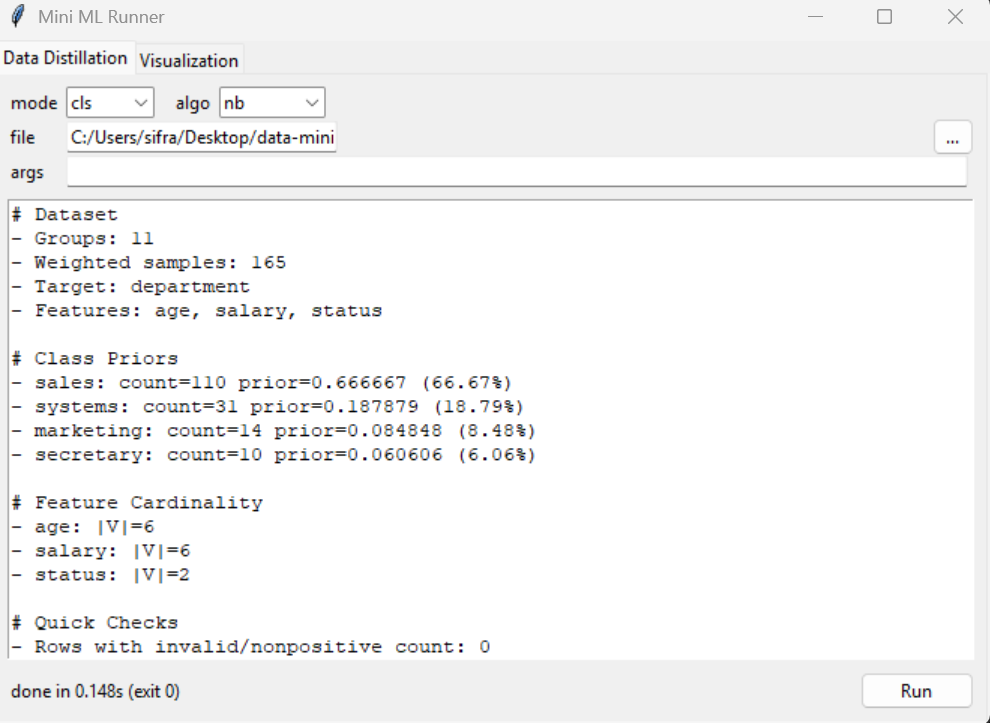
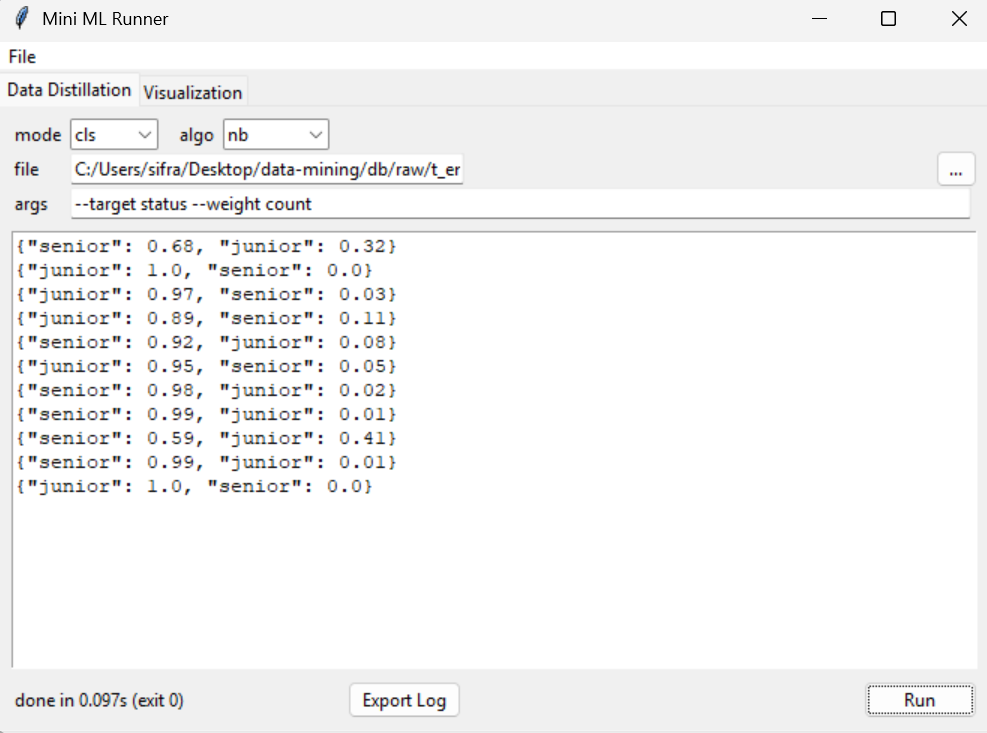
Use the configured Laplace value

diff --git a/models/classification/nb.py b/models/classification/nb.py
@@ -5,7 +5,7 @@ from typing import Any, Dict, Iterable, List, Tuple, Optional, Union
 
 Number = Union[int, float]
 
-# ---------- utils: flatten + numeric helpers ----------
+# ---------- utils ----------
 def _is_number_like(x: Any) -> bool:
     if isinstance(x, (int, float)) and not isinstance(x, bool):
         return True
@@ -35,7 +35,7 @@ def _flatten(prefix: str, value: Any, out: Dict[str, Any]) -> None:
         for i, v in enumerate(value):
             _flatten(f"{prefix}[{i}]" if prefix else f"[{i}]", v, out)
     else:
-        if prefix:  # ignore empty top-level if someone passes a scalar
+        if prefix:
             out[prefix] = value
 
 def flatten_json(obj: Dict[str, Any]) -> Dict[str, Any]:
@@ -45,26 +45,16 @@ def flatten_json(obj: Dict[str, Any]) -> Dict[str, Any]:
 
 # ---------- model ----------
 class NaiveBayesJSON:
-    """
-    General Naive Bayes for arbitrary JSON records.
-    - Auto-detects feature types (numeric/categorical)
-    - Categorical: Laplace smoothing
-    - Numeric: Gaussian likelihood with variance floor
-    - Supports per-sample weights
-    """
     def __init__(self, laplace: float = 1.0, var_floor: float = 1e-9):
         self.laplace = laplace
         self.var_floor = var_floor
         self.classes_: List[Any] = []
         self.class_weight_: Counter = Counter()
         self.n_weight_: float = 0.0
-
-        self.feature_types_: Dict[str, str] = {}  # 'categorical' | 'numeric'
+        self.feature_types_: Dict[str, str] = {}
         self.cat_counts_: Dict[str, Dict[Any, Counter]] = defaultdict(lambda: defaultdict(Counter))
         self.cat_totals_: Dict[str, Dict[Any, float]] = defaultdict(lambda: defaultdict(float))
         self.cat_cardinality_: Dict[str, int] = {}
-
-        # numeric params: feature -> class -> (mean, var, weight_sum)
         self.num_params_: Dict[str, Dict[Any, Tuple[float, float, float]]] = defaultdict(dict)
         self.log_priors_: Dict[Any, float] = {}
         self._feat_numeric_votes_: Counter = Counter()
@@ -90,7 +80,6 @@ class NaiveBayesJSON:
 
         flat_X = [flatten_json(rec) for rec in X]
 
-        # vote feature types
         for feat_row in flat_X:
             for k, v in feat_row.items():
                 self._feat_total_votes_[k] += 1
@@ -98,20 +87,18 @@ class NaiveBayesJSON:
                     self._feat_numeric_votes_[k] += 1
         self._decide_feature_types()
 
-        # accumulate per-class stats
         num_stats: Dict[str, Dict[Any, List[float]]] = defaultdict(lambda: defaultdict(lambda: [0.0, 0.0, 0.0]))
         cat_vocab: Dict[str, set] = defaultdict(set)
 
         for feat_row, cls, w in zip(flat_X, y, sample_weight):
             self.class_weight_[cls] += w
             self.n_weight_ += w
-
             for k, v in feat_row.items():
                 if self.feature_types_[k] == 'numeric':
                     val = _to_number(v)
                     if val is None:
                         continue
-                    s = num_stats[k][cls]  # [sum, sumsq, wsum]
+                    s = num_stats[k][cls]
                     s[0] += w * val
                     s[1] += w * (val * val)
                     s[2] += w
@@ -121,9 +108,12 @@ class NaiveBayesJSON:
                     self.cat_totals_[k][cls] += w
                     cat_vocab[k].add(sval)
 
-        # finalize
         self.classes_ = list(self.class_weight_.keys())
-        self.log_priors_ = {c: math.log(self.class_weight_[c] / self.n_weight_) for c in self.classes_}
+        if self.n_weight_ <= 0:
+            u = 1.0 / max(1, len(self.class_weight_))
+            self.log_priors_ = {c: math.log(u) for c in self.class_weight_.keys()}
+        else:
+            self.log_priors_ = {c: math.log(self.class_weight_[c] / self.n_weight_) for c in self.class_weight_.keys()}
 
         for feat, by_class in num_stats.items():
             for cls, (sum_, sumsq, wsum) in by_class.items():
@@ -148,10 +138,9 @@ class NaiveBayesJSON:
         for feat, ftype in self.feature_types_.items():
             if feat not in flat:
                 continue
-
             if ftype == 'numeric':
                 x = _to_number(flat[feat])
-                if x is None:  # incompatible type -> ignore
+                if x is None:
                     continue
                 for c in self.classes_:
                     params = self.num_params_.get(feat, {}).get(c)
@@ -162,18 +151,17 @@ class NaiveBayesJSON:
             else:
                 sval = str(flat[feat])
                 V = self.cat_cardinality_.get(feat, 1)
+                alpha = self.laplace
                 for c in self.classes_:
                     count = self.cat_counts_[feat][c][sval]
                     total = self.cat_totals_[feat][c]
-                    # Laplace smoothing
                     if total > 0:
-                        prob = (count + 1.0) / (total + V * 1.0)
+                        prob = (count + alpha) / (total + V * alpha)
                     else:
-                        prob = 1.0 / V
+                        prob = 1.0 / max(1, V)
                     logp[c] += math.log(prob)
 
-        # normalize
-        m = max(logp.values())
+        m = max(logp.values()) if logp else 0.0
         exps = {c: math.exp(v - m) for c, v in logp.items()}
         Z = sum(exps.values()) or 1.0
         return {c: exps[c] / Z for c in self.classes_}
@@ -182,8 +170,9 @@ class NaiveBayesJSON:
         return [self.predict_proba_one(r) for r in X]
 
 # ---------- io helpers ----------
-def load_records(path: str) -> List[Dict[str, Any]]:
-    # try JSON array; fallback to JSONL
+def load_records(path: Optional[str]) -> List[Dict[str, Any]]:
+    if not path:
+        return []
     try:
         with open(path, "r", encoding="utf-8") as f:
             data = json.load(f)
@@ -199,6 +188,29 @@ def load_records(path: str) -> List[Dict[str, Any]]:
                     recs.append(json.loads(line))
         return recs
 
+def _choose_auto_target(rows: List[Dict[str, Any]], weight_key: Optional[str]) -> Optional[str]:
+    if not rows:
+        return None
+    candidates = {}
+    for k in rows[0].keys():
+        if k == weight_key:
+            continue
+        vals = []
+        for r in rows:
+            if k not in r:
+                continue
+            v = r[k]
+            if _is_number_like(v):
+                vals = None
+                break
+            vals.append(str(v))
+        if vals is None or not vals:
+            continue
+        candidates[k] = len(set(vals))
+    if not candidates:
+        return None
+    return sorted(candidates.items(), key=lambda kv: kv[1])[0][0]
+
 # ---------- CLI ----------
 def main():
     ap = argparse.ArgumentParser(
@@ -206,10 +218,14 @@ def main():
     )
     ap.add_argument("train", help="Training JSON/JSONL (list of objects)")
     ap.add_argument("predict", nargs="?", help="Prediction JSON/JSONL (optional; defaults to training set)")
-    ap.add_argument("--target", default="target", help="Name of label field in records (default: target)")
+    ap.add_argument("--target", default=None, help="Name of label field in records (default: none; see --auto_target)")
+    ap.add_argument("--auto_target", action="store_true",
+                    help="If set and --target is omitted, auto-pick a categorical field as label.")
     ap.add_argument("--weight", default=None, help="Optional weight field (e.g., count)")
+    ap.add_argument("--drop", nargs="*", default=[], help="Feature keys to drop from training/prediction")
     ap.add_argument("--laplace", type=float, default=1.0, help="Laplace smoothing for categorical (default 1.0)")
     ap.add_argument("--var_floor", type=float, default=1e-9, help="Variance floor for numeric (default 1e-9)")
+    ap.add_argument("--round", dest="round_nd", type=int, default=2, help="Round probabilities to N decimals (default 2)")
     args = ap.parse_args()
 
     train = load_records(args.train)
@@ -217,15 +233,25 @@ def main():
         print("[]")
         return
 
-    # labels
-    if not all(isinstance(r, dict) and (args.target in r) for r in train):
-        sys.stderr.write(f"ERROR: training records must include '{args.target}'.\n")
+    target = args.target
+    if target is None:
+        if args.auto_target:
+            target = _choose_auto_target(train, args.weight)
+        if target is None:
+            sys.stderr.write("ERROR: no --target provided and auto-detection failed.\n")
+            sys.exit(1)
+
+    if not all(isinstance(r, dict) and (target in r) for r in train):
+        sys.stderr.write(f"ERROR: training records must include '{target}'.\n")
         sys.exit(1)
 
-    y = [r[args.target] for r in train]
-    X = [{k: v for k, v in r.items() if k != args.target} for r in train]
+    drop_set = set(args.drop) | {target}
+    if args.weight:
+        drop_set.add(args.weight)
 
-    # sample weights
+    y = [r[target] for r in train]
+    X = [{k: v for k, v in r.items() if k not in drop_set} for r in train]
+
     if args.weight is not None:
         w = [float(r.get(args.weight, 1.0)) for r in train]
     else:
@@ -233,13 +259,20 @@ def main():
 
     nb = NaiveBayesJSON(laplace=args.laplace, var_floor=args.var_floor).fit(X, y, sample_weight=w)
 
-    # prediction set
-    pred_set = load_records(args.predict) if args.predict else X
+    if args.predict:
+        pred_raw = load_records(args.predict)
+        pred_set = [{k: v for k, v in r.items() if k not in drop_set} for r in pred_raw]
+    else:
+        pred_set = X
+
     probs_list = nb.predict_proba(pred_set)
 
-    # pure probabilities, one JSON per line
+    def _sorted_rounded(d: Dict[Any, float], ndigits: int) -> Dict[str, float]:
+        items = sorted(((str(k), round(v, ndigits)) for k, v in d.items()), key=lambda kv: kv[1], reverse=True)
+        return {k: v for k, v in items}
+
     for probs in probs_list:
-        print(json.dumps(probs, ensure_ascii=False))
+        print(json.dumps(_sorted_rounded(probs, args.round_nd), ensure_ascii=False))
 
 if __name__ == "__main__":
     main()
